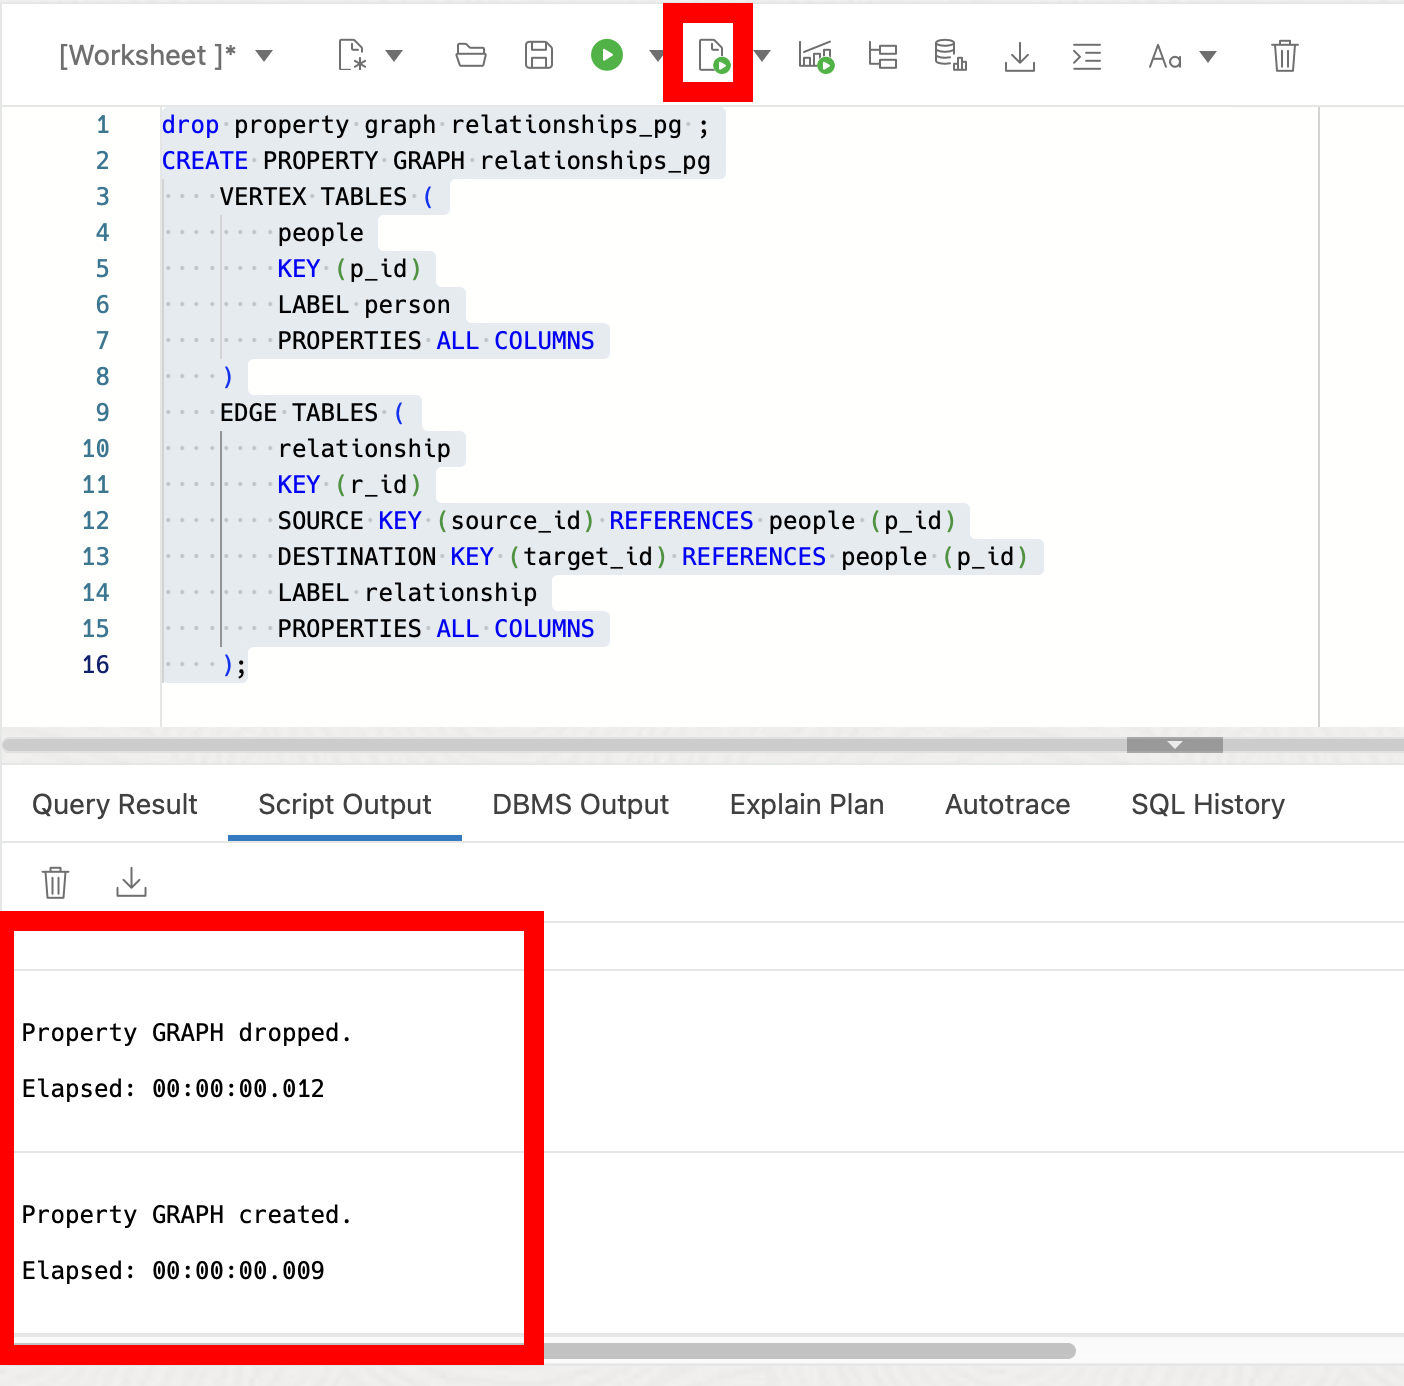
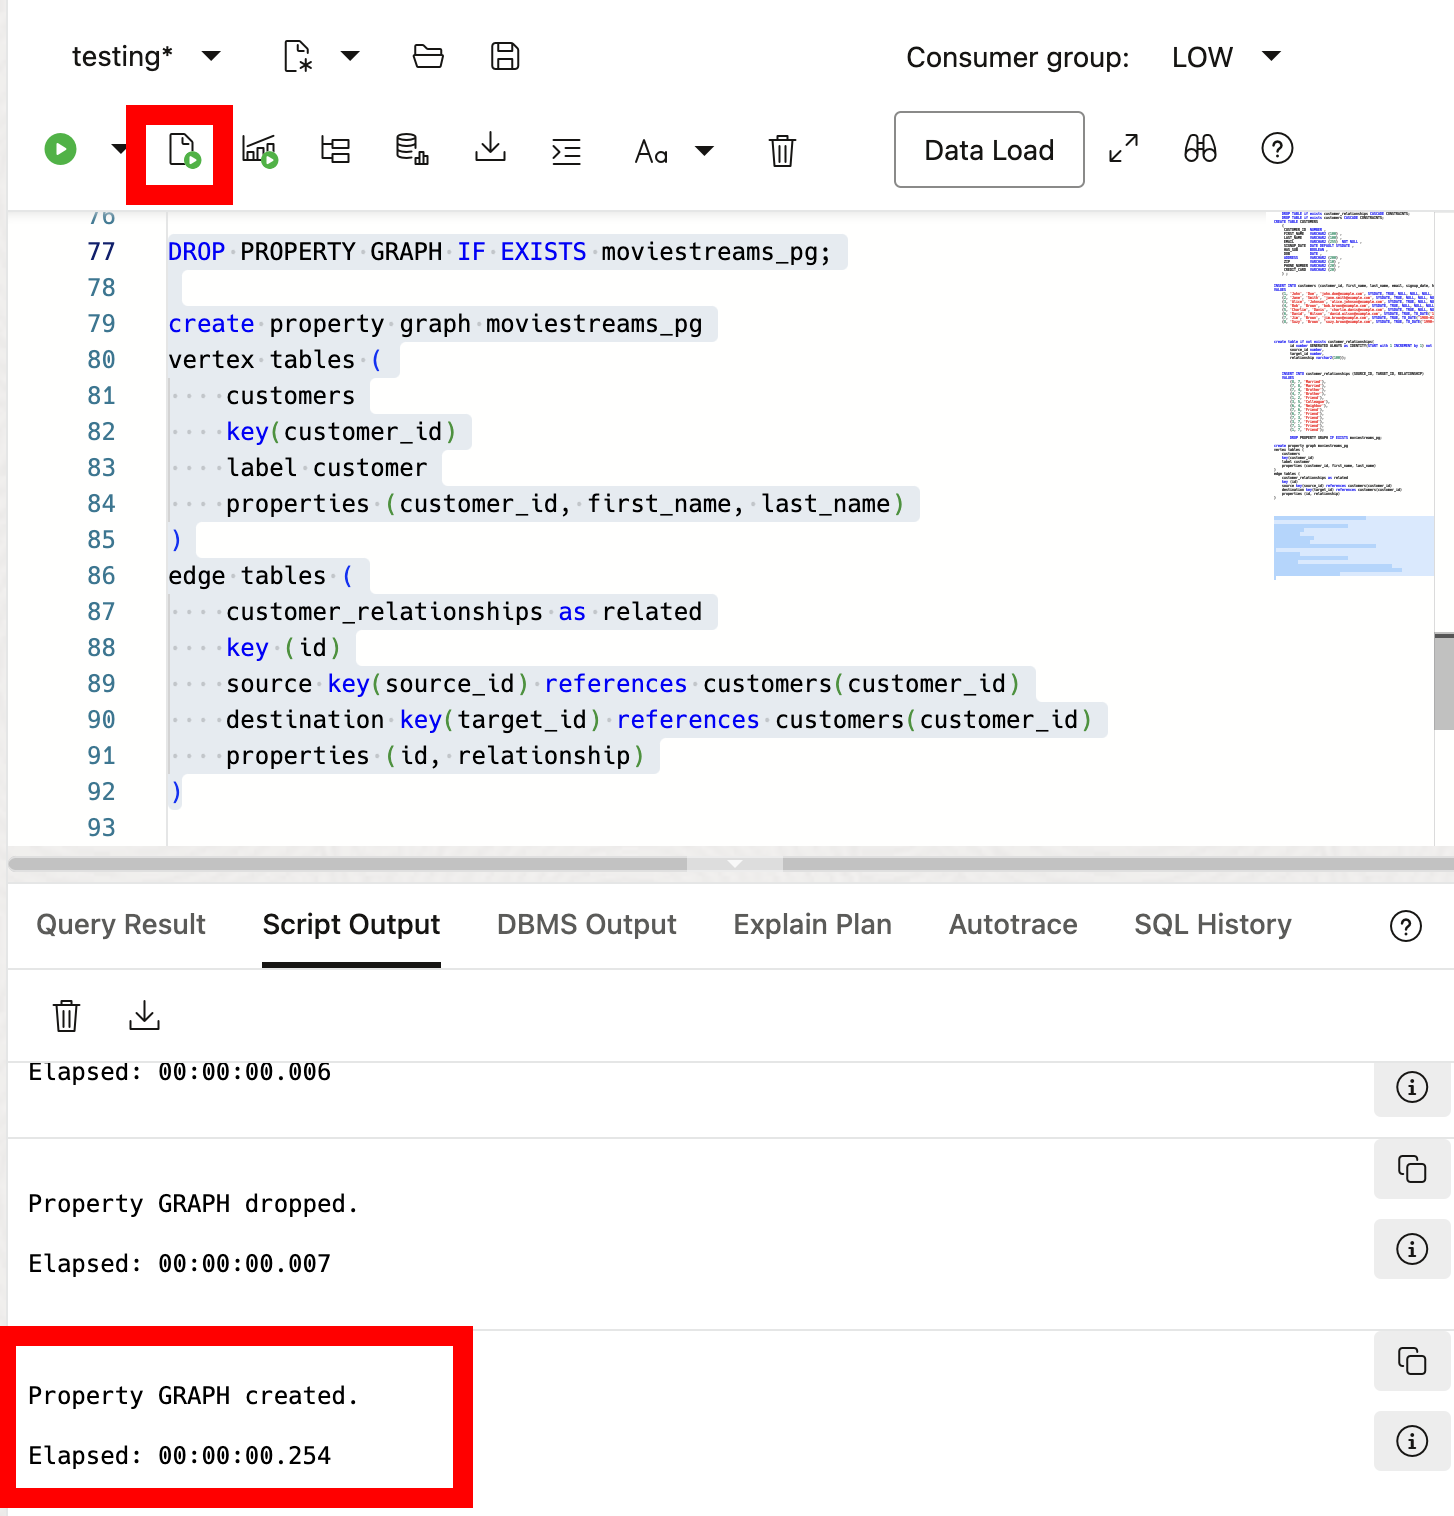
WMS ID 11029 (#729)
* WMS ID 11029

Updates to the Workshop based on feedback from OCW '24

* WMS ID 11029

small changes to flow

diff --git a/db-23ai-fundamentals/new-property-graph/new-property-graph.md b/db-23ai-fundamentals/new-property-graph/new-property-graph.md
@@ -91,37 +91,63 @@ This lab is just a short overview of the functionality introduced with Property 
     ```
     <copy>
 
-    drop table if exists people cascade CONSTRAINTS;
-    drop table if exists relationship cascade CONSTRAINTS;
+    DROP TABLE if exists customer_relationships CASCADE CONSTRAINTS;
+    DROP TABLE if exists customers CASCADE CONSTRAINTS;
 
-    CREATE TABLE people (
-        p_id NUMBER PRIMARY KEY,
-        name VARCHAR2(50)
-    );
+    CREATE TABLE CUSTOMERS 
+        ( 
+        CUSTOMER_ID  NUMBER , 
+        FIRST_NAME   VARCHAR2 (100) , 
+        LAST_NAME    VARCHAR2 (100) , 
+        EMAIL        VARCHAR2 (255)  NOT NULL , 
+        SIGNUP_DATE  DATE DEFAULT SYSDATE , 
+        HAS_SUB      BOOLEAN , 
+        DOB          DATE , 
+        ADDRESS      VARCHAR2 (200) , 
+        ZIP          VARCHAR2 (10) , 
+        PHONE_NUMBER VARCHAR2 (20) , 
+        CREDIT_CARD  VARCHAR2 (20) 
+        ) ;
 
-    INSERT INTO people (p_id, name) VALUES 
-        (1, 'Alice'), 
-        (2, 'Bob'), 
-        (3, 'Carol'), 
-        (4, 'Dave'), 
-        (5, 'Eve');
 
-    CREATE TABLE relationship (
-        r_id NUMBER PRIMARY KEY,
+    INSERT INTO customers (customer_id, first_name, last_name, email, signup_date, has_sub, dob, address, zip, phone_number, credit_card)
+    VALUES
+        (1, 'John', 'Doe', 'john.doe@example.com', SYSDATE, TRUE, NULL, NULL, NULL, NULL, NULL),
+        (2, 'Jane', 'Smith', 'jane.smith@example.com', SYSDATE, TRUE, NULL, NULL, NULL, NULL, NULL),
+        (3, 'Alice', 'Johnson', 'alice.johnson@example.com', SYSDATE, TRUE, NULL, NULL, NULL, NULL, NULL),
+        (4, 'Bob', 'Brown', 'bob.brown@example.com', SYSDATE, TRUE, NULL, NULL, NULL, NULL, NULL),
+        (5, 'Charlie', 'Davis', 'charlie.davis@example.com', SYSDATE, TRUE, NULL, NULL, NULL, NULL, NULL),
+        (6, 'David', 'Wilson', 'david.wilson@example.com', SYSDATE, TRUE, TO_DATE('1985-08-15', 'YYYY-MM-DD'), '123 Elm Street', '90210', '555-1234', '4111111111111111'),
+        (7, 'Jim', 'Brown', 'jim.brown@example.com', SYSDATE, TRUE, TO_DATE('1988-01-01', 'YYYY-MM-DD'), '456 Maple Street', '12345', NULL, NULL),
+        (8, 'Suzy', 'Brown', 'suzy.brown@example.com', SYSDATE, TRUE, TO_DATE('1990-01-01', 'YYYY-MM-DD'), '123 Maple Street', '12345', '555-1234', '4111111111111111');
+
+
+
+
+    CREATE TABLE if not exists customer_relationships(
+        id NUMBER GENERATED ALWAYS as IDENTITY(START with 1 INCREMENT by 1) not null constraint rel_pk primary key,
         source_id NUMBER,
         target_id NUMBER,
-        relationship VARCHAR2(50),
-        CONSTRAINT connections_people_1_fk FOREIGN KEY (source_id) REFERENCES people (p_id),
-        CONSTRAINT connections_people_2_fk FOREIGN KEY (target_id) REFERENCES people (p_id)
-    );
+        relationship VARCHAR2(100));
 
-    INSERT INTO relationship (r_id, source_id, target_id, relationship) 
-    VALUES 
-        (1, 1, 2, 'friend'),
-        (2, 2, 3, 'colleague'),
-        (3, 3, 4, 'neighbor'),
-        (4, 4, 1, 'sibling'),
-        (5, 1, 3, 'mentor');
+
+
+    INSERT INTO customer_relationships (SOURCE_ID, TARGET_ID, RELATIONSHIP)
+    VALUES
+        (8, 7, 'Married'),
+        (7, 8, 'Married'),
+        (7, 4, 'Brother'),
+        (4, 7, 'Brother'),
+        (1, 2, 'Friend'),
+        (3, 5, 'Colleague'),
+        (6, 4, 'Neighbor'),
+        (7, 6, 'Friend'),
+        (6, 7, 'Friend'),
+        (7, 3, 'Friend'),
+        (3, 7, 'Friend'),
+        (7, 1, 'Friend'),
+        (1, 7, 'Friend');
+
 
     </copy>
     ```
@@ -136,38 +162,36 @@ This lab is just a short overview of the functionality introduced with Property 
     
     The property graphs are stored as metadata inside the database meaning they don't store the actual data. Rather, the data is still stored in the underlying objects and we use the SQL/PQG syntax to interact with the property graphs.
 
-    "Why not do this in SQL?" Short answer is, you can. However, it may not be simple. Modeling graphs inside the database using SQL can be difficult and cumbersome and could require complex SQL code to accurately represent and query all aspects of a graph.
+    "Why not do this in SQL?" The short answer is, you can. However, it may not be simple. Modeling graphs inside the database using SQL can be difficult and cumbersome and could require complex SQL code to accurately represent and query all aspects of a graph.
 
     This is where property graphs come in. Property graphs make the process of working with interconnected data, like identifying influencers in a social network, predicting trends and customer behavior, discovering relationships based on pattern matching and more by providing a more natural and efficient way to model and query them. Let's take a look at how to create property graphs and query them using the SQL/PGQ extension.
 
-2. We'll first create a property graph that models the relationship between people (our tables created earlier).
+2. We'll first create a property graph that models the relationship between customers.
 
     ```
     <copy>
         
-    drop property graph if exists relationships_pg;
+    DROP PROPERTY GRAPH IF EXISTS moviestreams_pg;
 
-    CREATE PROPERTY GRAPH relationships_pg
-        VERTEX TABLES (
-            people
-            KEY (p_id)
-            LABEL person
-            PROPERTIES ALL COLUMNS
-        )
-        EDGE TABLES (
-            relationship
-            KEY (r_id)
-            SOURCE KEY (source_id) REFERENCES people (p_id)
-            DESTINATION KEY (target_id) REFERENCES people (p_id)
-            LABEL relationship
-            PROPERTIES ALL COLUMNS
-        );
-
+    create property graph moviestreams_pg
+    vertex tables (
+        customers
+        key(customer_id)
+        label customer
+        properties (customer_id, first_name, last_name)
+    )
+    edge tables (
+        customer_relationships as related
+        key (id)
+        source key(source_id) references customers(customer_id)
+        destination key(target_id) references customers(customer_id)
+        properties (id, relationship)
+    )
     </copy>
     ```
 
     A couple things to point out here:
-    * Vertex represent our people table
+    * Vertex represent our customers table
     * Edges represent how they are connected (relationship table)
     * Our edges table has a source key and destination key, representing the connection between the two people
 
@@ -285,77 +309,55 @@ This lab is just a short overview of the functionality introduced with Property 
 
 12. In this short lab we've looked at SQL property graphs and SQL/PGQ in Oracle Database 23ai. We've learned how to create property graphs from existing tables, query these graphs to discover relationships, and prepare data for visualization. 
 
-
-## Task 3: Querying Property Graphs with SQL/PGQ
-
-1. Now we can use SQL/PQG to query and work with our property graphs. We'll use the GRAPH_TABLE operator here to display people who are connected to each other.
-
+13. We can clean our environment.
     ```
     <copy>
-        
-    SELECT person_1, relationship, person_2
-    FROM   graph_table (relationships_pg
-            MATCH
-            (p1 IS person) -[r IS relationship]-> (p2 IS person)
-            COLUMNS (p1.name AS person_1, r.relationship, p2.name AS person_2)
-        );
-
+    drop table if exists customer_relationships CASCADE CONSTRAINTS;
+    drop table if exists customers CASCADE CONSTRAINTS;
+    drop property graph moviestreams_pg;
     </copy>
     ```
 
-    ![use sql/pgq to query the graph](images/im4.png =50%x*)
+## Task 4: Clean up
 
-2. We can filter our results like we can in SQL.
+1. Sign back in with the **admin** user. 
+
+    If you've forgotten your password, it can be found by clicking the **View login info** button in the top left of these instruction. Alternatively, you can watch the gif below to find the password.  
+
+    ![reset the password](images/pswrd1.gif " ")
+
+2. Now using the password we found above, sign in as the admin user. 
+
+    ![sign into the admin user](images/im25.png " ")
+
+3. Using the hamburger menu in the upper left hand corner of the screen, find and open the SQL Editor
+
+    ![sign into the admin user](images/im22.png " ")
+
+
+4. Terminate any active sessions created by the DB23AI user and drop the user.
 
     ```
     <copy>
-        
-    SELECT person_1, relationship, person_2
-    FROM   graph_table (relationships_pg
-            MATCH
-            (p1 IS person WHERE p1.name = 'Alice') -[r IS relationship]-> (p2 IS person)
-            COLUMNS (p1.name AS person_1, r.relationship, p2.name AS person_2)
-        );
+
+    BEGIN
+    FOR session IN (SELECT SID, SERIAL# FROM V$SESSION WHERE USERNAME = 'DB23AI') LOOP
+        EXECUTE IMMEDIATE 'ALTER SYSTEM KILL SESSION ''' || session.SID || ',' || session.SERIAL# || ''' IMMEDIATE';
+    END LOOP;
+    END;
 
     </copy>
     ```
+    ![terminate sessions](images/im21.png " ")
 
-    ![use sql/pgq to select a person from the graph](images/im5.png " ")
+5. Now drop the user
 
-3. We can also check the metadata about our graph
     ```
     <copy>
-        
-    SELECT person_1, relationship, person_2, id_person_1, id_relationship, id_person_2
-    FROM   graph_table (relationships_pg
-            MATCH
-            (p1 IS person) -[r IS relationship]-> (p2 IS person)
-            COLUMNS (p1.name AS person_1,
-                    p2.name AS person_2,
-                    r.relationship AS relationship,
-                    vertex_id(p1) AS id_person_1,
-                    edge_id(r) AS id_relationship,
-                    vertex_id(p2) AS id_person_2)
-        );
-
+    DROP USER DB23AI CASCADE;
     </copy>
     ```
-    ![check graph metadata using sql/pgq](images/im6.png " ")
 
-
-4. In this short lab we've looked at SQL property graphs and SQL/PGQ in Oracle Database 23ai. We've learned how to create property graphs from existing tables, query these graphs to discover relationships, and prepare data for visualization. 
-
-    This is just a small sample of what you can do with Property Graphs and SQL/PQG in Oracle Database 23ai. For more in depth labs and other graph functionality, brows through the following link
-    * [Graphs in 23ai](https://livelabs.oracle.com/pls/apex/f?p=133:100:105582422382278::::SEARCH:graph)
-
-5. We can clean our environment.
-    ```
-    <copy>
-    drop table people cascade CONSTRAINTS;
-    drop table relationship cascade CONSTRAINTS;
-    drop property graph relationships_pg;
-    </copy>
-    ```
 
 You may now **proceed to the next lab** 
 
@@ -367,4 +369,4 @@ You may now **proceed to the next lab**
 ## Acknowledgements
 * **Author** - Killian Lynch, Database Product Management
 * **Contributors** - Dom Giles, Distinguished Database Product Manager
-* **Last Updated By/Date** - Killian Lynch, April 2024
+* **Last Updated By/Date** - Killian Lynch, December 2024

diff --git a/db-23ai-fundamentals/new-duality-views/new-duality-views.md b/db-23ai-fundamentals/new-duality-views/new-duality-views.md
@@ -253,7 +253,7 @@ This lab assumes you have:
 
     Let's see an example.
 
-    First, we can insert some orders into our Jim Brown customer. Here, we can use `mergepath`.
+    First, we can insert some orders into our Jim Brown customer. Here, we can use `json_mergepatch`.
 
 
 	```
@@ -322,7 +322,7 @@ This lab assumes you have:
 
     For a small example, I will show this using a macOS native terminal and execute a basic GET request.
 
-2. Click on SQL under the Development section. The first thing we want to do is enable REST on our Duality Views. Use the Oracle Database Actions Navigator on the left side of the screen, click the drop-down arrow for the box showing the Table objects, and select Views. Refer to the picture below.
+2. In the Navigator menu on the left hand side of the screen, click the drop-down arrow for the box showing the Table objects, and select Views. Refer to the picture below if needed.
 
     ![load rest](images/rest1.png " ")
 
@@ -350,7 +350,7 @@ This lab assumes you have:
     ADB_LL_URL=https://ajs6esm7pafcr84-atp97134.adb.us-ashburn-1.oraclecloudapps.com
     ```
 
-6. Now, create a variable in your terminal (It shouldn't have / at the end.)
+6. Now, if you're on macOS or Linux create a variable in your terminal (It shouldn't have / at the end.). If you're on windows, see step 9 below.
 
 	```
 	<copy>
@@ -367,7 +367,7 @@ This lab assumes you have:
     ```
     > NOTE: This base url will be unique for each user, verify that you are using the correct URL.
 
-8. Make a GET request from your laptop terminal command line.
+8. Make a GET request from your laptop terminal command line. I've done this on a macOS - if you're running on Windows, see step 9 below instead.
 
 	```
 	<copy>
@@ -377,12 +377,38 @@ This lab assumes you have:
     ```
     ![pull one doc](images/r1.png " ")
 
+9. 	If you're using a Windows 10 and up machine, run the following
 
-9. This lab is only intended to give you a small taste of what Duality Views have to offer. For full, in-depth free workshops, follow the link below:
+    ```
+	<copy>
+    set ADB_LL_URL=https://ajs6esm7pafcr84-atp97134.adb.us-ashburn-1.oraclecloudapps.com
+    </copy>
+    ```
+10. Check it was set.
+
+	```
+	<copy>
+    echo %ADB_LL_URL%
+    </copy>
+    ```
+    > NOTE: This base url will be unique for each user, verify that you are using the correct URL.
+
+11. Make a GET request from your laptop terminal command line. 
+
+	```
+	<copy>
+    curl -X GET %ADB_LL_URL%/ords/admin/customers_dv/
+    </copy>
+    ```
+    ![pull one doc](images/r1.png " ")
+
+12. This lab is only intended to give you a small taste of what Duality Views have to offer. For full, in-depth free workshops, follow the link below:
 
     [23ai JSON Duality View Workshops](https://livelabs.oracle.com/pls/apex/f?p=133:100:110578183178299::::SEARCH:duality%20views)
 
     In summary, this lab checks out the power of JSON Relational Duality Views, allowing you to work with data in either JSON Document format or SQL Relational format. Changes made through views are reflected in the corresponding documents and tables. This flexibility enables convenient create, read, update, or delete operations across multiple documents and tables with ease.
+
+
 
 10. We can clean up from the lab by dropping our tables. Navigate back to the SQL editor or go back to task one - step one if you need a reminder where it is.
 

diff --git a/db-23ai-fundamentals/database-setup/database-setup.md b/db-23ai-fundamentals/database-setup/database-setup.md
@@ -20,7 +20,7 @@ The objective of this workshop is to set up the 23ai always free ADB. The follow
 
     ![locate adb](images/im2.png " ")
 
-3. Keep the default compartment and give the datable a display name and database name. Let's name it db23ai. Next **click** transaction Processing and keep the serverless option for the database.
+3. Keep the default compartment and give the database a display name and database name. Let's name it db23ai. Next **click** transaction Processing and keep the serverless option for the database.
 
     ![locate adb](images/im3.png " ")
 
@@ -33,7 +33,7 @@ The objective of this workshop is to set up the 23ai always free ADB. The follow
 
     ![locate adb](images/im5.png " ")
 
-6. The databse in now being created for us. It should take around 5 min or less. Once its available it will show green and say Available.
+6. The database in now being created for us. It should take around 5 min or less. Once its available it will show green and say Available.
 
     ![locate adb](images/im6.png " ")
 

diff --git a/db-23ai-fundamentals/new-sql-firewall/new-sql-firewall.md b/db-23ai-fundamentals/new-sql-firewall/new-sql-firewall.md
@@ -144,7 +144,7 @@ The objective of this workshop is to familiarize you with the SQL Firewall featu
     ![start capture](images/im22.png " ")
     ![start capture](images/im23.png " ")
 
-10. Select the SQL time and perform typical SQL operations to capture normal activities (e.g., select and insert statements).
+10. Select the SQL tile so we can run some typical SQL operations to capture normal activities (e.g., select and insert statements).
 
     ```
     <copy>

diff --git a/db-23ai-fundamentals/new-ai-vector-search/new-ai-vector-search.md b/db-23ai-fundamentals/new-ai-vector-search/new-ai-vector-search.md
@@ -149,7 +149,7 @@ In this lab, you will explore the new vector data type and SQL Functions introdu
     ```
     ![insert into the table](images/vec6.png =50%x*)
 
-    By defining the number of dimensions, we are effetely creating a check constraint.
+    By defining the number of dimensions, we are effectively creating a check constraint.
 
 5. We could also create multiple vectors in one table and define them with different formats and dimensions.
     
